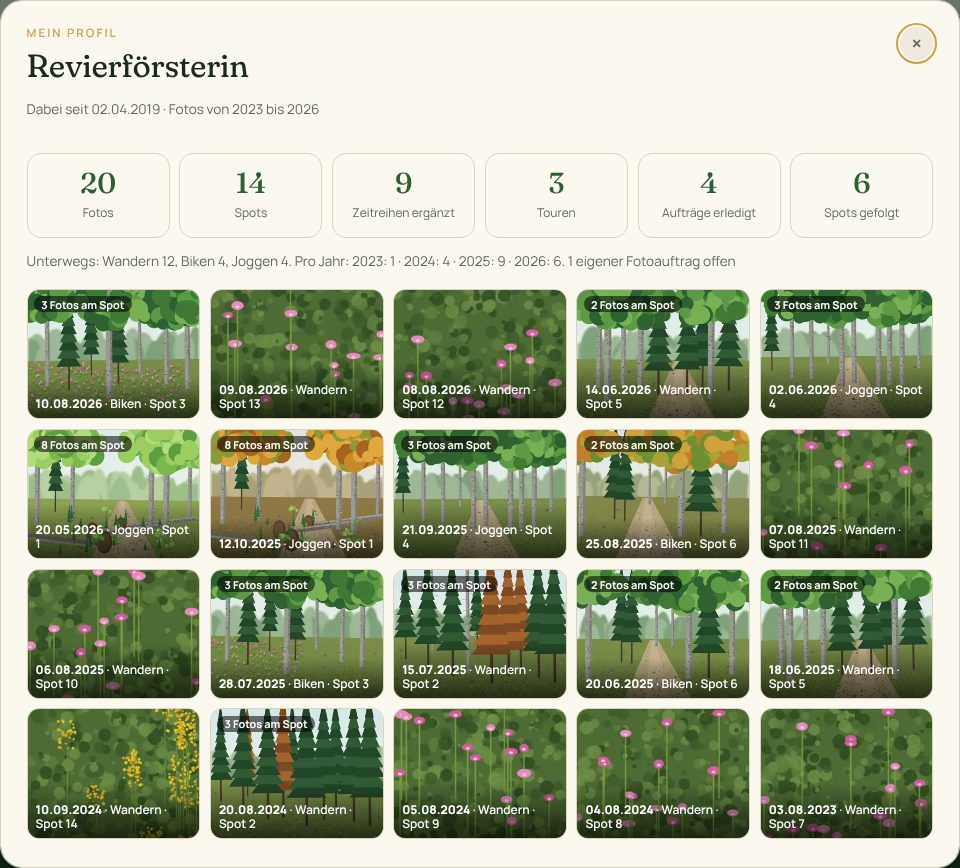
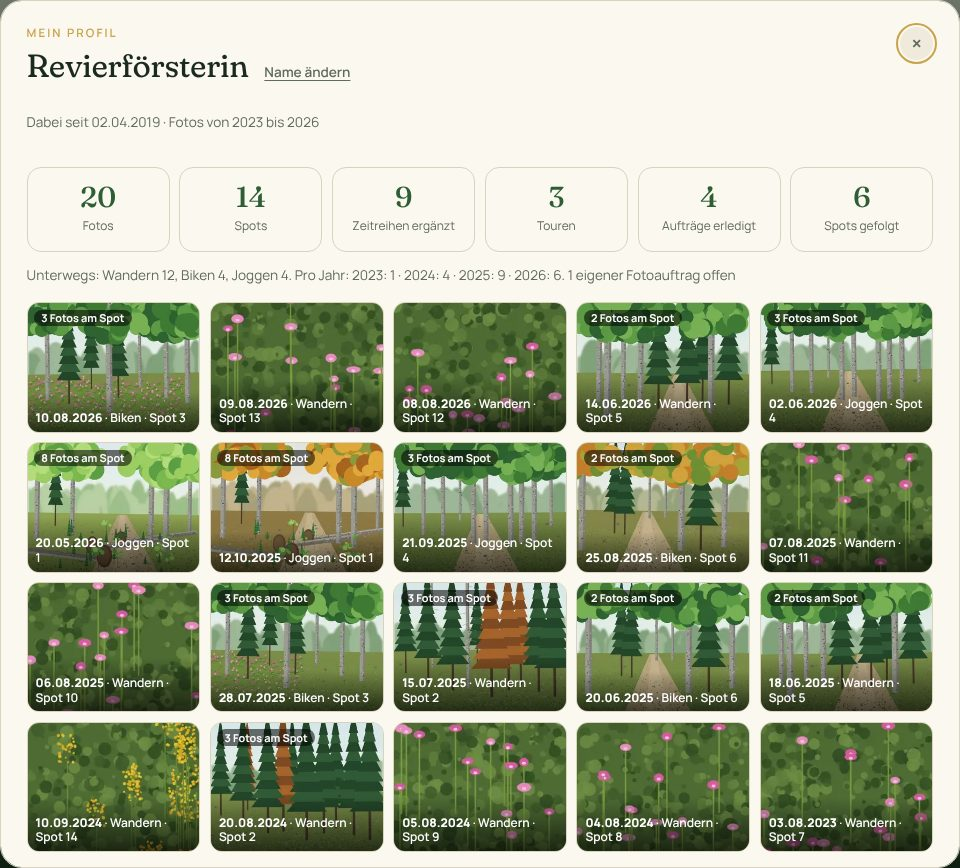
Change the display name from the profile
- PATCH /api/auth/me { name }: same rules as registering (3-40
  characters, unique regardless of case); "Anonym" and "System" are
  reserved for registering, provider sign-ups and renaming, since the app
  shows these words itself. At most 3 changes a day; each one is logged
  as "old → new" in the moderation log.
- "Name ändern" next to the name on the profile page; credits, menu and
  upload hint show the new name at once. The profile dialog opens with
  the focus on its close button again.
- Tests, docs (functions, API, roadmap, README) and the profile screenshot.

Claude-Session: https://claude.ai/code/session_01W6iS2cPESEYEc9zQfDGaR4

diff --git a/public/account.js b/public/account.js
@@ -38,7 +38,7 @@ const ROLE_LABEL = { user: 'Mitglied', moderator: 'Moderation', admin: 'Administ
 const ACTION_LABEL = {
   hide: 'ausgeblendet', unhide: 'wieder eingeblendet', dismiss: 'Meldungen verworfen', delete: 'gelöscht', role: 'Rolle geändert',
   protect: 'geschützt', unprotect: 'Schutz aufgehoben', 'pro-verifiziert': 'PRO verifiziert', 'pro-abgelehnt': 'PRO abgelehnt', 'pro-entzogen': 'PRO entzogen',
-  'account-delete': 'Konto gelöscht',
+  'account-delete': 'Konto gelöscht', rename: 'Namen geändert',
 };
 const PROTECT_REASON = { upload: 'beim Hochladen geschützt', art: 'automatisch: seltene oder geschützte Art', pro: 'von einem PRO-Mitglied geschützt', moderation: 'von der Moderation geschützt' };
 /** Verified PRO members and moderation see protected finds exactly. */
@@ -715,10 +715,24 @@ profileDialog.innerHTML = `
   <div class="dialog-head mod-head">
     <div>
       <p class="eyebrow">Mein Profil</p>
-      <h2 id="profile-title"></h2>
+      <div class="profile-name">
+        <h2 id="profile-title"></h2>
+        <button type="button" class="link small" id="profile-rename">Name ändern</button>
+      </div>
+      <form id="rename-form" class="rename-form" hidden novalidate>
+        <label class="field"><span>Neuer Anzeigename <em>3–40 Zeichen, wird bei deinen Fotos genannt</em></span>
+          <input name="name" maxlength="40" autocomplete="nickname" required></label>
+        <p class="muted small">Der neue Name steht sofort unter all deinen Fotos. Wer sich mit dem Namen statt der
+          E-Mail-Adresse anmeldet, braucht danach den neuen. Höchstens 3 Änderungen pro Tag.</p>
+        <p id="rename-error" class="auth-error" role="alert" hidden></p>
+        <div class="row">
+          <button type="submit" class="btn primary">Speichern</button>
+          <button type="button" class="link" id="rename-cancel">Abbrechen</button>
+        </div>
+      </form>
       <p id="profile-since" class="muted small"></p>
     </div>
-    <button type="button" class="icon" id="profile-close" aria-label="Schliessen">×</button>
+    <button type="button" class="icon" id="profile-close" aria-label="Schliessen" autofocus>×</button>
   </div>
   <div id="profile-stats" class="stats profile-stats"></div>
   <p id="profile-more" class="muted small"></p>
@@ -727,6 +741,36 @@ profileDialog.innerHTML = `
   <div class="row center"><button type="button" class="secondary" id="profile-next" hidden>Weitere Fotos laden</button></div>`;
 document.body.append(profileDialog);
 $('profile-close').addEventListener('click', () => profileDialog.close());
+
+const renameForm = $('rename-form');
+function showRename(open) {
+  renameForm.hidden = !open;
+  $('profile-rename').hidden = open;
+  $('rename-error').hidden = true;
+  if (open) {
+    renameForm.name.value = Account.user.name;
+    renameForm.name.focus();
+    renameForm.name.select();
+  }
+}
+$('profile-rename').addEventListener('click', () => showRename(true));
+$('rename-cancel').addEventListener('click', () => showRename(false));
+renameForm.addEventListener('submit', async (e) => {
+  e.preventDefault();
+  try {
+    const r = await jsonPost('/api/auth/me', { name: renameForm.name.value }, 'PATCH');
+    Account.user = r.user;
+    $('profile-title').textContent = r.user.name;
+    showRename(false);
+    renderNav();
+    fillLicenseSelect();
+    // Photo credits show the current name.
+    await refreshViews();
+  } catch (err) {
+    $('rename-error').textContent = err.message;
+    $('rename-error').hidden = false;
+  }
+});
 let profileFilter = 'alle';
 let profileOffset = 0;
 
@@ -742,6 +786,7 @@ async function openProfile() {
     return;
   }
   $('profile-title').textContent = p.name;
+  showRename(false);
   const span = p.firstAt ? ` · Fotos von ${new Date(p.firstAt).getFullYear()} bis ${new Date(p.lastAt).getFullYear()}` : '';
   $('profile-since').textContent = `Dabei seit ${fmtDate(p.memberSince)}${span}`;
   $('profile-stats').replaceChildren(

diff --git a/src/auth.js b/src/auth.js
@@ -147,6 +147,15 @@ function createLimiter({ max, windowMs, now = Date.now }) {
 
 const EMAIL_RE = /^[^\s@]+@[^\s@]+\.[^\s@]+$/;
 const NAME_RE = /^[\p{L}\p{N}][\p{L}\p{N} ._-]{1,38}[\p{L}\p{N}]$/u;
+// Words the app shows itself: "Anonym" for photos without account, "System" in the moderation log.
+const RESERVED_NAMES = new Set(['anonym', 'system']);
+const cleanName = (name) => (typeof name === 'string' ? name.trim().replace(/\s+/g, ' ') : '');
+/** Why a display name is not allowed, or null. */
+function nameError(name) {
+  if (!NAME_RE.test(name)) return 'Der Name braucht 3–40 Zeichen (Buchstaben, Ziffern, Leerzeichen, . _ -)';
+  if (RESERVED_NAMES.has(name.toLowerCase())) return `«${name}» ist für die App reserviert`;
+  return null;
+}
 
 /** Account store bound to a database. */
 // PRO membership (verified organisations such as forest services or nature NGOs), added in place.
@@ -187,11 +196,9 @@ function createAuth(db, { adminEmail = null } = {}) {
 
   async function register({ email, name, password }) {
     email = typeof email === 'string' ? email.trim() : '';
-    name = typeof name === 'string' ? name.trim().replace(/\s+/g, ' ') : '';
+    name = cleanName(name);
     if (!EMAIL_RE.test(email) || email.length > 200) return { error: 'Bitte eine gültige E-Mail-Adresse angeben' };
-    if (!NAME_RE.test(name)) {
-      return { error: 'Der Name braucht 3–40 Zeichen (Buchstaben, Ziffern, Leerzeichen, . _ -)' };
-    }
+    if (nameError(name)) return { error: nameError(name) };
     if (typeof password !== 'string' || password.length < 8 || password.length > 200) {
       return { error: 'Das Passwort braucht mindestens 8 Zeichen' };
     }
@@ -227,7 +234,7 @@ function createAuth(db, { adminEmail = null } = {}) {
     if (!NAME_RE.test(base)) base = `Waldfreund${base ? ` ${base}` : ''}`.slice(0, 34).trim();
     for (let i = 1; i < 1000; i += 1) {
       const name = i === 1 ? base : `${base} ${i}`;
-      if (NAME_RE.test(name) && !db.prepare('SELECT 1 FROM users WHERE name = ?').get(name)) return name;
+      if (!nameError(name) && !db.prepare('SELECT 1 FROM users WHERE name = ?').get(name)) return name;
     }
     return `Waldfreund ${crypto.randomBytes(3).toString('hex')}`;
   }
@@ -417,6 +424,24 @@ function createAuth(db, { adminEmail = null } = {}) {
     }
   }
 
+  /** Changes the display name; only the case of the own name may stay the same. */
+  function rename(user, wanted) {
+    const name = cleanName(wanted);
+    const error = nameError(name);
+    if (error) return { error, status: 400 };
+    if (name === user.name) return { error: 'Das ist bereits dein Name', status: 400 };
+    // Names are unique regardless of case (COLLATE NOCASE).
+    if (db.prepare('SELECT 1 FROM users WHERE name = ? AND id != ?').get(name, user.id)) {
+      return { error: 'Dieser Name ist bereits vergeben', status: 409 };
+    }
+    try {
+      db.prepare('UPDATE users SET name = ? WHERE id = ?').run(name, user.id);
+    } catch {
+      return { error: 'Dieser Name ist bereits vergeben', status: 409 }; // lost a race
+    }
+    return { user: userById.get(user.id), previous: user.name };
+  }
+
   const userByEmail = (email) => (typeof email === 'string' && EMAIL_RE.test(email.trim()) ? db.prepare('SELECT * FROM users WHERE email = ?').get(email.trim()) : null);
 
   const identitiesOf = (userId) => db.prepare('SELECT provider FROM identities WHERE user_id = ? ORDER BY provider').all(userId).map((r) => r.provider);
@@ -476,7 +501,7 @@ function createAuth(db, { adminEmail = null } = {}) {
   return {
     register, authenticate, createSession, session, destroySession, identityLogin, identitiesOf, unlinkIdentity,
     createEmailToken, confirmEmail, checkResetToken, resetPassword, changePassword, userByEmail,
-    confirmOwner, deleteBlocker, deleteUser,
+    confirmOwner, deleteBlocker, deleteUser, rename,
     userById: (id) => userById.get(id),
   };
 }

diff --git a/test/accounts.test.js b/test/accounts.test.js
@@ -706,3 +706,37 @@ test('profile: own figures and photos, hidden ones without files, nothing of oth
     assert.deepEqual((await (await admin.req('/api/profile/photos')).json()).photos.map((x) => x.id), [first.id]);
   });
 });
+
+test('changing the display name: rules, credits, login by the new name, log, limit', async () => {
+  await withServer({ rateLimits: { renamePerAccount: 2 } }, async (base, db) => {
+    const admin = client(base);
+    await admin.register('admin@example.org', 'Admin');
+    const anna = client(base);
+    await anna.register('anna@example.org', 'Anna Wald');
+    const p = (await (await anna.upload('nogps.jpg', { lat: '47.1', lon: '8.1' })).json()).created[0];
+    const rename = (c, name, opts = {}) => c.req('/api/auth/me', { method: 'PATCH', json: { name }, ...opts });
+
+    assert.equal((await rename(client(base), 'Niemand')).status, 401);
+    assert.equal((await rename(anna, 'A')).status, 400);
+    assert.equal((await rename(anna, 'anonym')).status, 400, 'reserved');
+    assert.equal((await rename(anna, 'ADMIN')).status, 409, 'taken, regardless of case');
+    assert.equal((await rename(anna, 'Anna Wald')).status, 400, 'unchanged');
+    assert.equal((await rename(anna, 'Anna Neu', { csrf: false })).status, 403, 'needs the CSRF token');
+
+    const ok = await rename(anna, '  Anna   Moos ');
+    assert.equal(ok.status, 200);
+    assert.equal((await ok.json()).user.name, 'Anna Moos');
+    const spot = await (await fetch(`${base}/api/spots/${p.spotId}`)).json();
+    assert.equal(spot.photos[0].uploader.name, 'Anna Moos', 'credits show the new name');
+    assert.equal((await client(base).login('Anna Moos')).res.status, 200);
+    assert.equal((await client(base).login('Anna Wald')).res.status, 401);
+    const log = db.prepare("SELECT * FROM moderation_log WHERE action = 'rename'").get();
+    assert.equal(log.detail, 'Anna Wald → Anna Moos');
+
+    // Only the case of the own name: allowed. Then the daily limit.
+    assert.equal((await rename(anna, 'anna moos')).status, 200);
+    assert.equal((await rename(anna, 'Anna Dritte')).status, 429);
+    // Registering with a reserved name is refused as well.
+    assert.equal((await client(base).register('x@example.org', 'System')).res.status, 400);
+  });
+});

diff --git a/src/routes/accounts.js b/src/routes/accounts.js
@@ -81,6 +81,7 @@ module.exports = function registerAccounts(app, ctx) {
   const forgotPerIp = createLimiter({ max: limits.forgotPerIp ?? 10, windowMs: 3600 * 1000 });
   const forgotPerAddress = createLimiter({ max: limits.forgotPerAddress ?? 3, windowMs: 3600 * 1000 });
   const resetPerIp = createLimiter({ max: limits.resetPerIp ?? 20, windowMs: 15 * 60 * 1000 });
+  const renamePerAccount = createLimiter({ max: limits.renamePerAccount ?? 3, windowMs: 24 * 3600 * 1000 });
   const verifyPerAccount = createLimiter({ max: limits.verifyPerAccount ?? 3, windowMs: 3600 * 1000 });
   const reportPerIp = createLimiter({ max: limits.reportPerIp ?? 30, windowMs: 3600 * 1000 });
 
@@ -431,6 +432,25 @@ module.exports = function registerAccounts(app, ctx) {
     } catch (err) {
       next(err);
     }
+  });
+
+  /* ---------- Display name ---------- */
+
+  app.patch('/api/auth/me', (req, res) => {
+    if (!jsonOnly(req, res)) return;
+    if (!req.user) return fail(res, 401, 'Bitte zuerst anmelden');
+    if (req.body?.name === undefined) return fail(res, 400, 'Bitte einen neuen Namen angeben (name)');
+    const wait = renamePerAccount.blocked(req.user.id);
+    if (wait) {
+      return res.set('Retry-After', String(wait)).status(429)
+        .json({ error: `Der Name wurde heute schon mehrmals geändert – wieder möglich in ${Math.ceil(wait / 3600)} Stunden` });
+    }
+    const r = auth.rename(req.user, req.body.name);
+    if (r.error) return fail(res, r.status, r.error);
+    renamePerAccount.hit(req.user.id);
+    // The moderation can trace who someone was before (photo credits always show the current name).
+    mod.log(r.user, 'rename', { targetUserId: r.user.id, detail: `${r.previous} → ${r.user.name}` });
+    res.json({ user: selfJson(r.user) });
   });
 
   /* ---------- Deleting the account ---------- */

diff --git a/public/style.css b/public/style.css
@@ -1348,3 +1348,6 @@ a.menu-item { display: flex; color: var(--text); text-decoration: none; font-siz
 .tile-placeholder { display: grid; place-items: center; height: 100%; padding: 0.8rem; text-align: center; font-size: 0.8rem; color: var(--muted); }
 .profile-empty { grid-column: 1 / -1; display: grid; justify-items: start; gap: 0.6rem; }
 .row.center { justify-content: center; }
+.profile-name { display: flex; align-items: baseline; gap: 0.8rem; flex-wrap: wrap; }
+.rename-form { max-width: 440px; margin: 0.4rem 0 0.6rem; }
+.rename-form .field input { width: 100%; }

diff --git a/docs/roadmap.md b/docs/roadmap.md
@@ -16,7 +16,7 @@ Was als Nächstes geplant ist. Was der Prototyp heute schon kann, steht unter
 - **Touren**: FIT-Dateien direkt lesen, Höhenprofil der Route, Abgleich mit Strava/Komoot per OAuth,
   Aufzeichnung im Hintergrund (braucht eine native Hülle, Browser stoppen GPS im Hintergrund),
   Benachrichtigung, wenn ein eigener Fotoauftrag erledigt wurde, Ablaufdatum für Aufträge.
-- **Konten ausbauen**: Export der eigenen Daten, Anzeigename ändern, E-Mail-Adresse ändern (mit
+- **Konten ausbauen**: Export der eigenen Daten, E-Mail-Adresse ändern (mit
   Bestätigung der neuen Adresse); weitere Anmeldedienste wie SwitchEdu-ID oder Microsoft; Rate-Limits
   dauerhaft speichern statt im Arbeitsspeicher.
 
@@ -76,4 +76,4 @@ Aus früheren Versionen dieser Roadmap:
 - Geodienste: OGC API – Features und Tiles (auch im LV95-Kachelgitter, vorberechnet, PMTiles/MBTiles),
   Vektorkarten, QGIS Server, Metadaten für geocat.ch (GM03)
 - Betrieb mit Docker Compose und Kubernetes (podman-Startskript)
-- Konten: Anmelden mit Google und GitHub, E-Mail bestätigen, Passwort zurücksetzen und ändern, Konto löschen, Profilseite mit eigenen Fotos
+- Konten: Anmelden mit Google und GitHub, E-Mail bestätigen, Passwort zurücksetzen und ändern, Konto löschen, Profilseite mit eigenen Fotos, Anzeigename ändern

diff --git a/docs/funktionen.md b/docs/funktionen.md
@@ -845,6 +845,11 @@ der Zeit vor der Befristung gelten ein Jahr ab dem Entscheid, mindestens aber no
   sich getrennt anzeigen; ausgeblendete erscheinen mit dem Grund, aber ohne Bild, weil ihre Dateien auch der
   Urheberin nicht mehr ausgeliefert werden. Das Profil ist nur für das eigene Konto sichtbar: Eine öffentliche
   Liste aller Fotos einer Person würde ihre regelmässigen Wege und Zeiten verraten.
+- *Anzeigename ändern*: Im Profil unter *Name ändern*. Es gelten dieselben Regeln wie beim Registrieren
+  (3–40 Zeichen, eindeutig ohne Rücksicht auf Gross-/Kleinschreibung); „Anonym“ und „System“ sind reserviert,
+  weil die App sie selbst anzeigt. Der neue Name steht sofort unter allen eigenen Fotos. Wer sich mit dem Namen
+  statt der E-Mail-Adresse anmeldet, braucht danach den neuen. Höchstens 3 Änderungen pro Tag; jede Änderung
+  steht als „alt → neu“ im Moderationsprotokoll, damit die Moderation Missbrauch nachverfolgen kann.
 - *Konto löschen*: Im Konto-Menü unter *Konto löschen …*, bestätigt mit dem Passwort (Konten ohne Passwort
   tippen ihren Kontonamen ein). Für die eigenen Fotos ist eine ausdrückliche Wahl nötig: **anonym behalten**
   (sie bleiben für die Zeitreihen der Spots erhalten und heissen danach „Anonym“, die Lizenz bleibt) oder

diff --git a/docs/api.md b/docs/api.md
@@ -63,6 +63,7 @@ Alle Routen liefern und erwarten JSON, sofern nicht anders angegeben. Den Aufbau
 | `POST`   | `/api/auth/password/forgot`  | Link zum Zurücksetzen an `{ email }` schicken; antwortet immer `{ ok: true }` |
 | `GET`    | `/api/profile`               | Eigenes Profil: Fotos, Spots, fortgesetzte Zeitreihen (`repeatSpots`), Jahre, Aktivitäten, Touren, Fotoaufträge, gefolgte Spots |
 | `GET`    | `/api/profile/photos`        | Eigene Fotos, neueste zuerst (`?offset`, `?limit` bis 200, `?filter=alle\|geschuetzt\|ausgeblendet`); ausgeblendete ohne Bild-URLs |
+| `PATCH`  | `/api/auth/me`               | Angemeldet: Anzeigename ändern (`{ name }`); höchstens 3 pro Tag |
 | `GET`    | `/api/auth/account`          | Angemeldet: was beim Löschen betroffen wäre (`photos`, `tracks`, `requests`), `confirmWith` (`password` oder `name`), `blocker` |
 | `DELETE` | `/api/auth/account`          | Eigenes Konto löschen (`{ photos: delete\|anonymize, password }` bzw. `name` ohne Passwort) |
 | `POST`   | `/api/auth/password/change`  | Angemeldet: Passwort ändern (`{ current, password }`); beendet die anderen Sitzungen, Hinweis per E-Mail |

diff --git a/README.md b/README.md
@@ -260,7 +260,7 @@ möglich, ausser der Betrieb verlangt eines (`REQUIRE_LOGIN`) oder eine bestäti
 
 Unter **Mein Profil** stehen die eigenen Beiträge: wie viele Fotos und Spots, wie viele Zeitreihen man
 fortgesetzt und wie viele Fotoaufträge man erledigt hat, und alle eigenen Fotos, das neueste zuerst. Ein Klick
-öffnet den Spot. Das Profil sieht nur, wem es gehört; eine öffentliche Liste aller Fotos einer Person würde
+öffnet den Spot, und über *Name ändern* lässt sich der Anzeigename anpassen. Das Profil sieht nur, wem es gehört; eine öffentliche Liste aller Fotos einer Person würde
 zeigen, wo und wann sie regelmässig unterwegs ist.
 
 ## Was MyForrest kann
